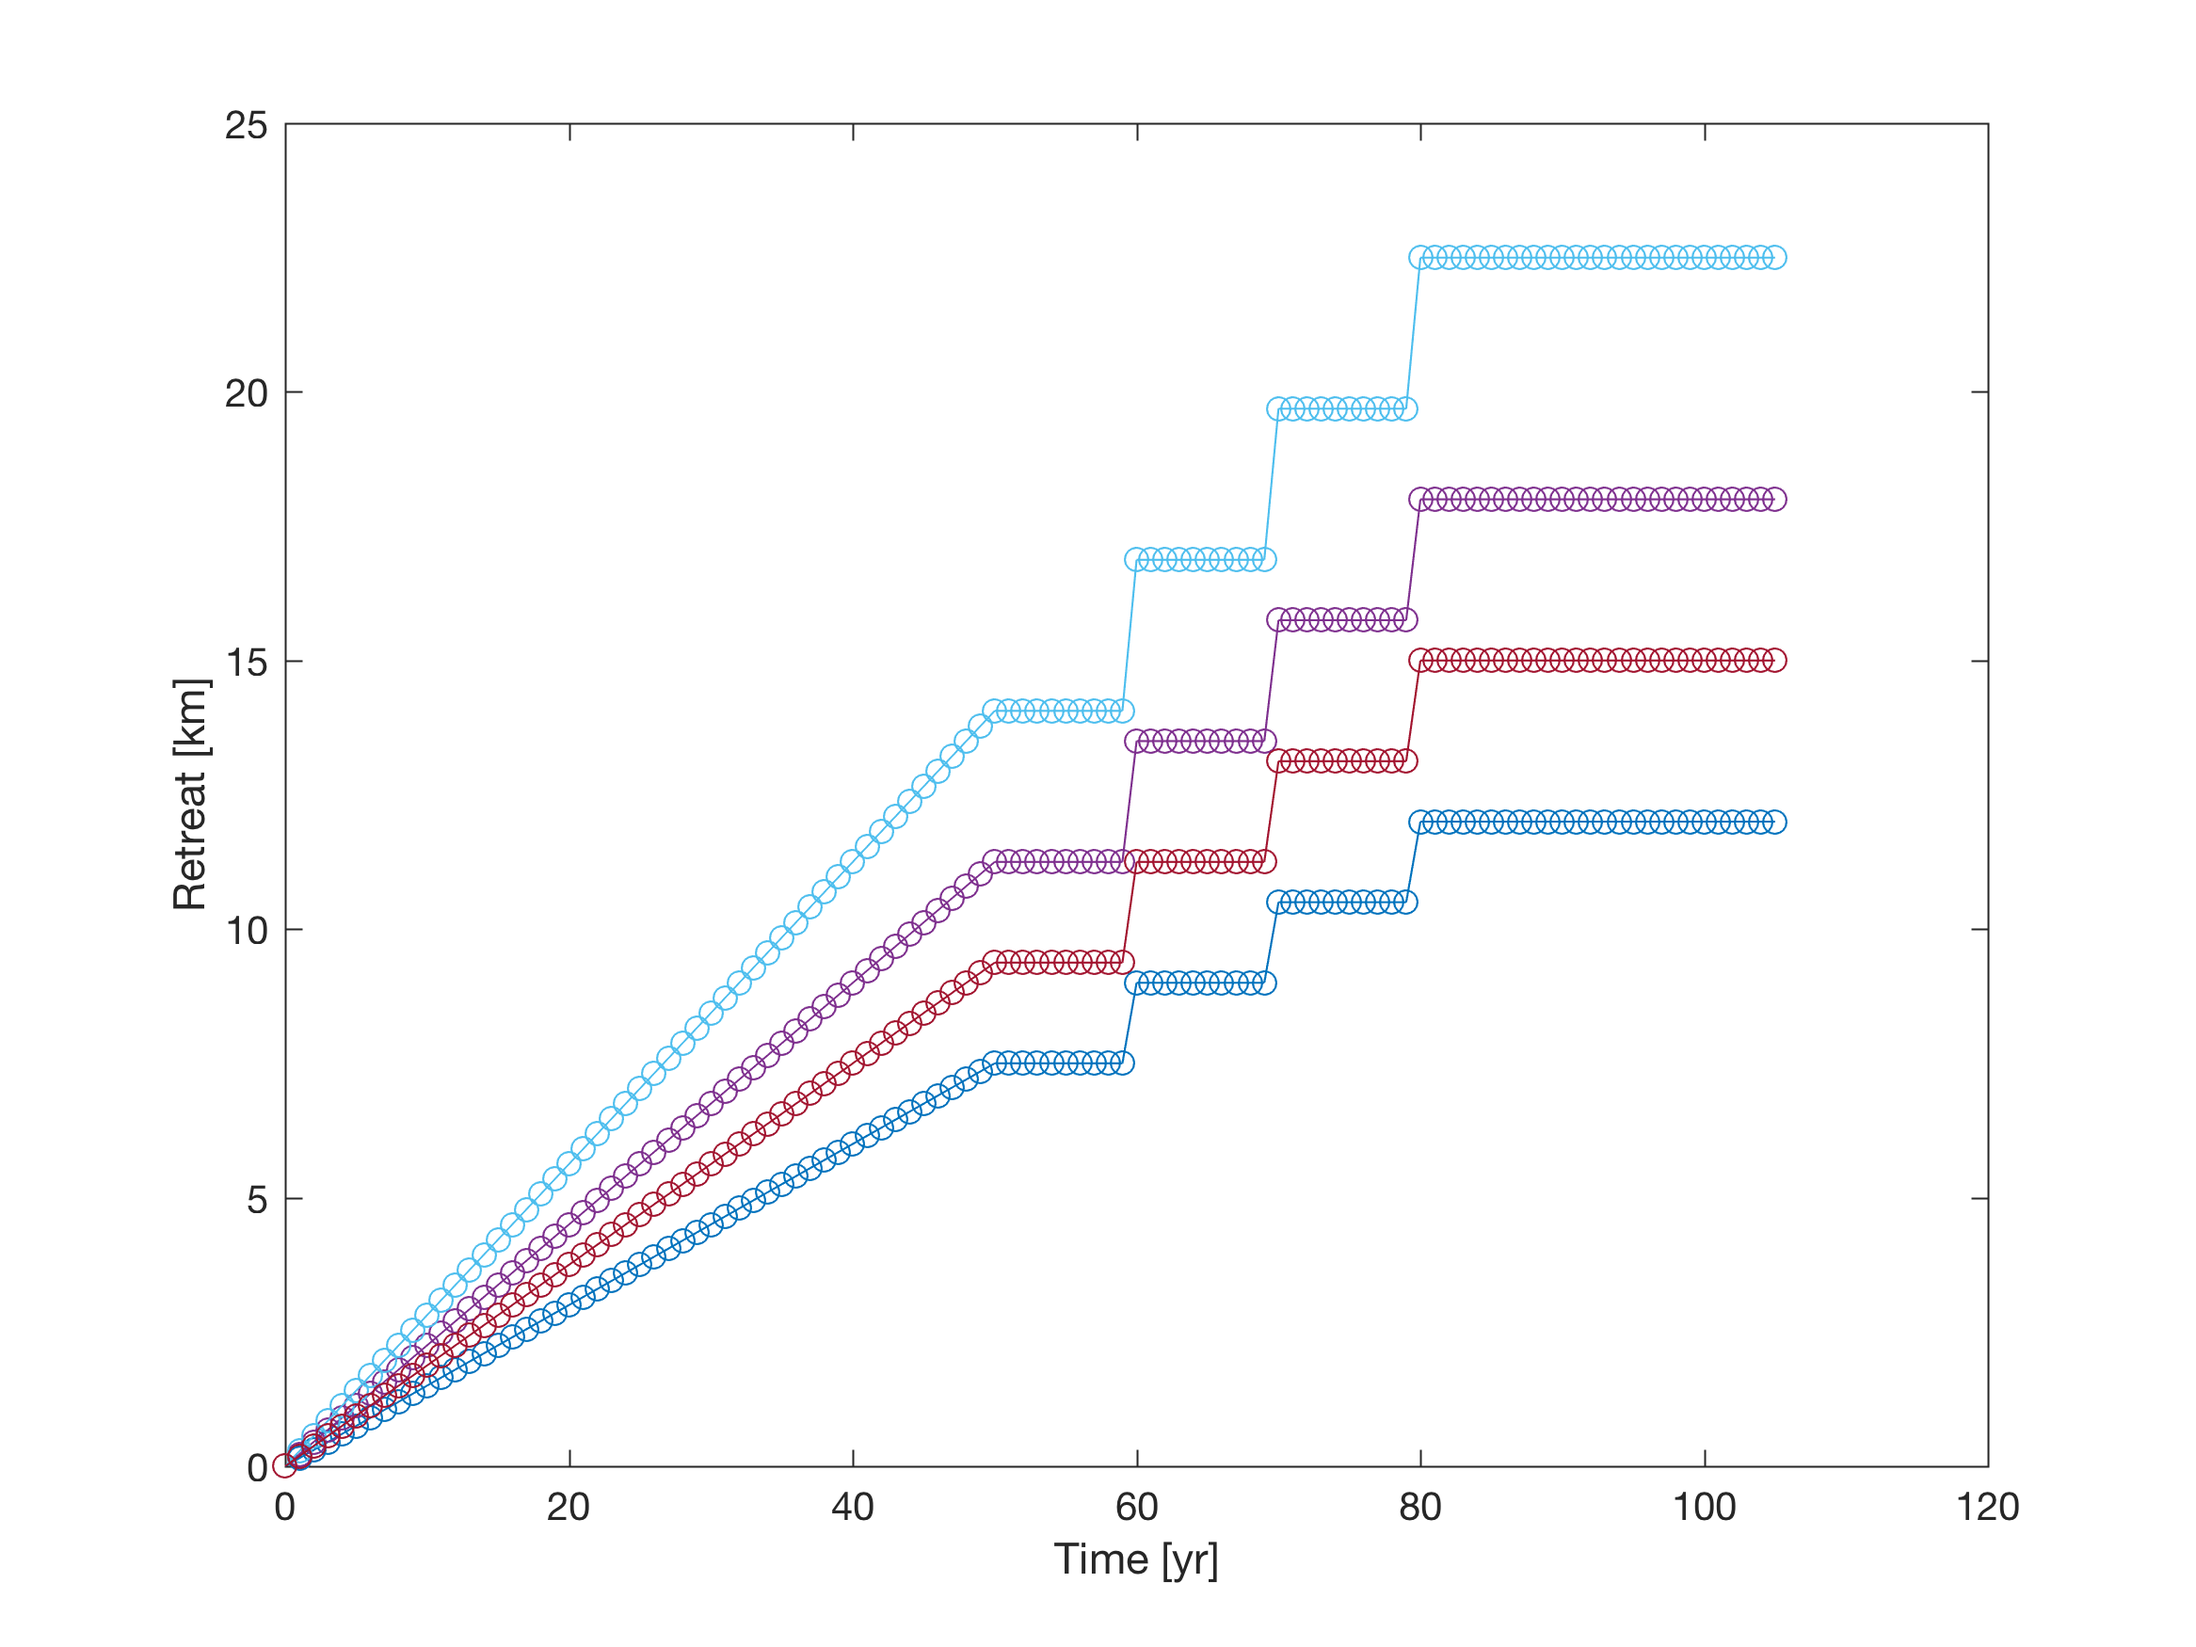
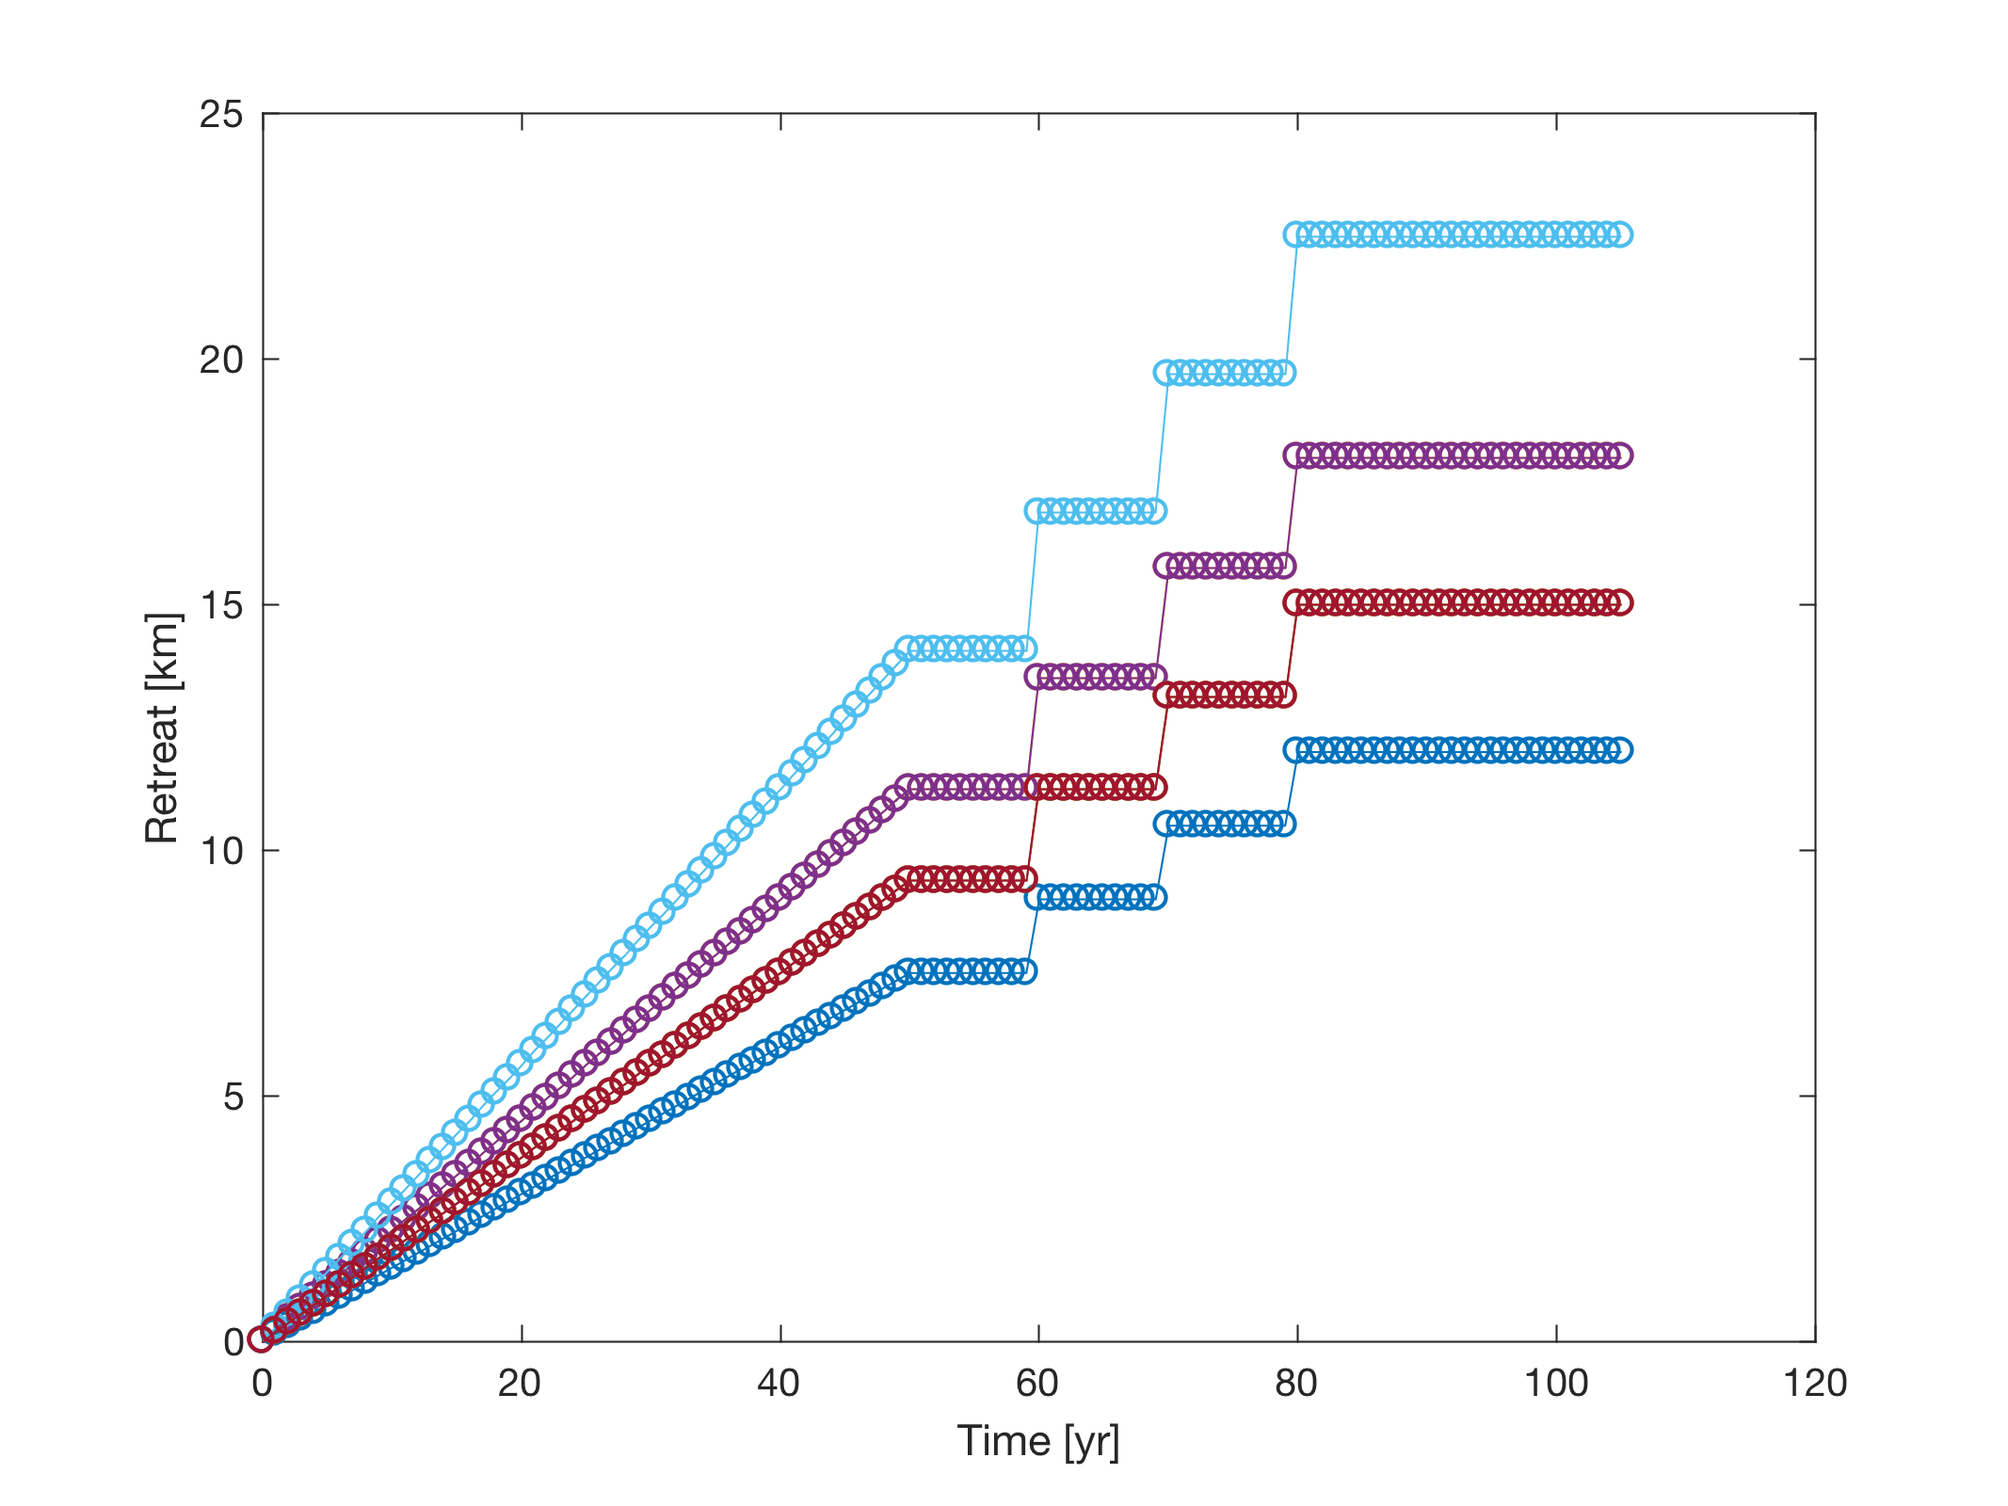
Updating README files and info for retreat regions

diff --git a/Rates/test00/make_retreat.m b/Rates/test00/make_retreat.m
@@ -32,4 +32,6 @@ xlabel('Time [yr]')
 ylabel('Retreat [km]')
 print -dpng -r300 retreat_scenarios
 
-save retreat_test.mat retreat
+info = 'Regions 1-7: NO, NE, CE, SE, SW, CW ,NW'
+
+save retreat_test.mat retreat info

diff --git a/Rates/test00/README.md b/Rates/test00/README.md
@@ -1,7 +1,7 @@
-# Simple retreat scenario for testing
+# Simple retreat scenario for testing 1995-2100
 
-# Should be saved as a matlab variable retreat = zeros(7,101);
-# with relative ice front positions every year (0:1:100) for 7 regions
+# Should be saved as a matlab variable retreat = zeros(7,106);
+# with relative ice front positions every year (0:1:105) for 7 regions
 # regions [NO, NE, CE, SE, SW, CW, NW] 
 
 make_retreat.m

diff --git a/Rates/README.md b/Rates/README.md
@@ -1,7 +1,7 @@
-# Retreat scenarios
+# Retreat scenarios 1995-2100
 
-Should be saved as a matlab variable retreat = zeros(7,101);
-with relative ice front positions every year (0:1:100) for 7 regions [NO, NE, CE, SE, SW, CW, NW] 
+Should be saved as a matlab variable retreat = zeros(7,106);
+with relative ice front positions every year (0:1:105) for 7 regions [NO, NE, CE, SE, SW, CW, NW] 
 
 # Test scenario
 `test00/`

diff --git a/Models/OBS/README.md b/Models/OBS/README.md
@@ -1,8 +1,3 @@
 # Prepare observed ice mask for distance calculations 
 prep_model.sh
---> sftgif_01000m.nc
-
-
-# Finalise distance map for model
-finalise_model.sh
-
+--> sftgif.nc
